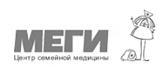
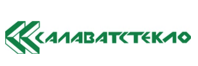
n-commit

Changed region(s): [[0.0252, 0.0909, 0.9811, 0.8182]]

diff --git a/index.html b/index.html
@@ -526,8 +526,8 @@
      <div class="dev">@ by alexko
      </div>
     </section>
-    <script src="http://ajax.googleapis.com/ajax/libs/jquery/1.11.1/jquery.min.js"></script>
-    <link  href="http://cdnjs.cloudflare.com/ajax/libs/fotorama/4.6.4/fotorama.css" rel="stylesheet">
-    <script src="http://cdnjs.cloudflare.com/ajax/libs/fotorama/4.6.4/fotorama.js"></script>
+    <script src="https://ajax.googleapis.com/ajax/libs/jquery/1.11.1/jquery.min.js"></script>
+    <link  href="https://cdnjs.cloudflare.com/ajax/libs/fotorama/4.6.4/fotorama.css" rel="stylesheet">
+    <script src="https://cdnjs.cloudflare.com/ajax/libs/fotorama/4.6.4/fotorama.js"></script>
   </body>
 </html>

diff --git a/css/style.css b/css/style.css
@@ -19,6 +19,7 @@ body {
   top: 0;
   background: #fff;
 }
+
 .wrap {
   max-width: 1100px;
   margin: 0 auto;
@@ -445,6 +446,12 @@ body {
   -webkit-box-pack: center;
       -ms-flex-pack: center;
           justify-content: center;
+  -webkit-filter: grayscale(100%);
+          filter: grayscale(100%);
+}
+.our-client-block:hover {
+  -webkit-filter: grayscale(0%);
+          filter: grayscale(0%);
 }
 .our-client-block-wrap {
   display: -webkit-box;

diff --git a/sass/_our-client.sass b/sass/_our-client.sass
@@ -9,6 +9,9 @@
 		align-items: center
 		display: flex
 		justify-content: center
+		filter: grayscale(100%)
+		&:hover
+			filter: grayscale(0%)
 		&-wrap
 			display: flex
 	
